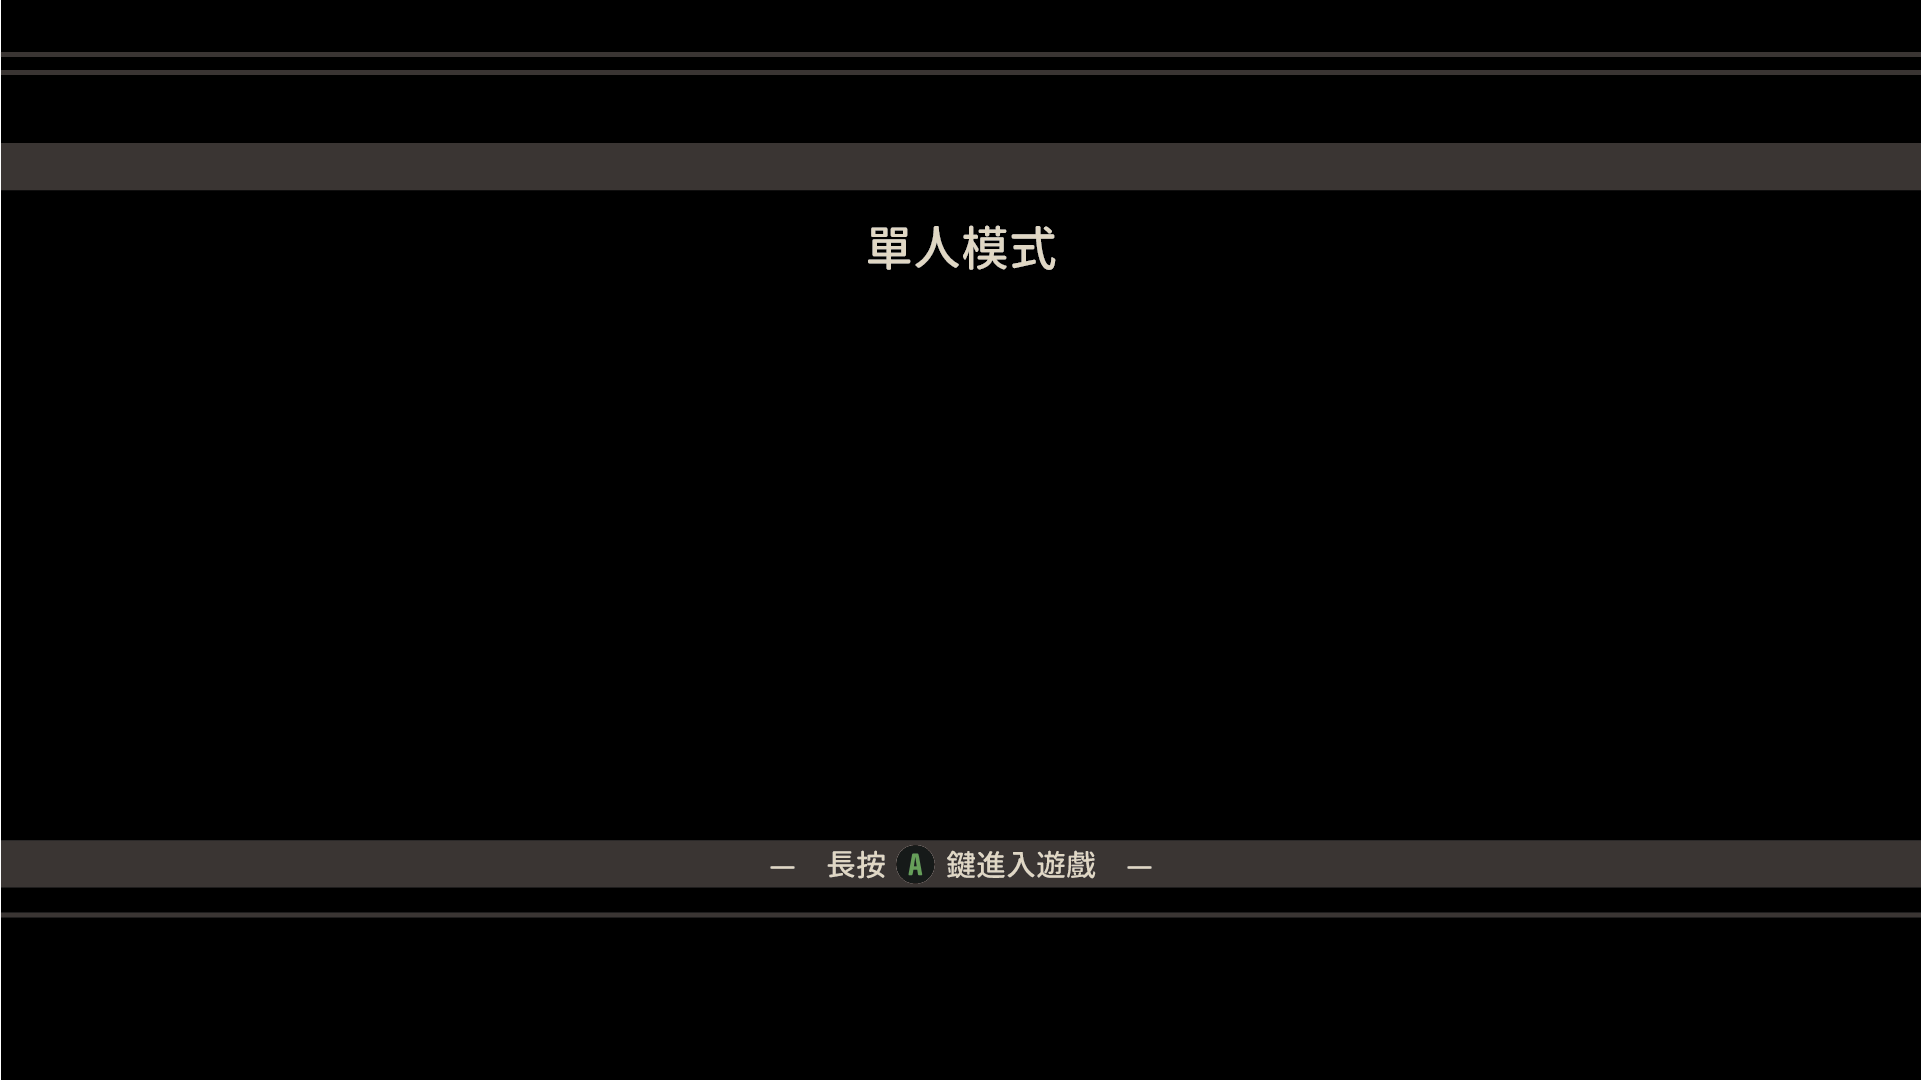
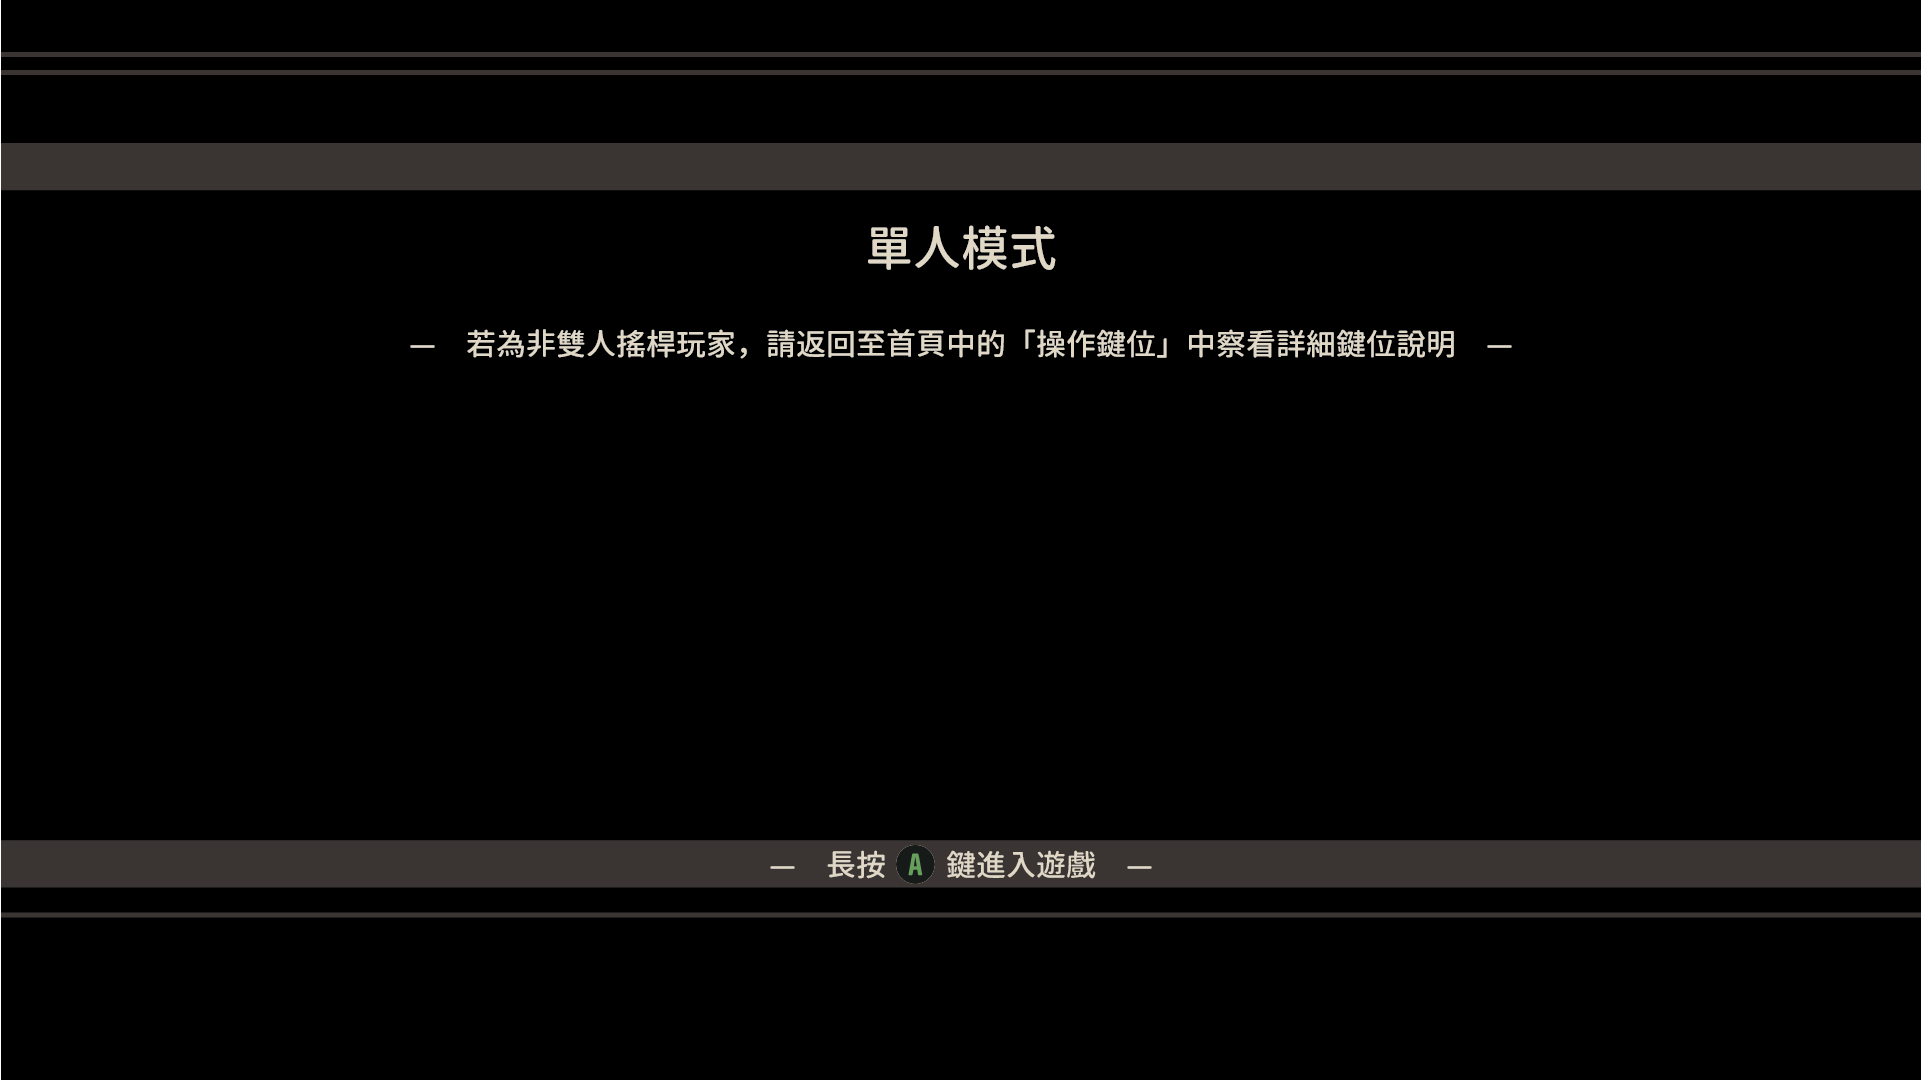
加強文字敘述版、增設開發人員bool

Changed region(s): [[0.2186, 0.3056, 0.7808, 0.3361]]

diff --git a/Assets/Tutorial.cs b/Assets/Tutorial.cs
@@ -19,6 +19,9 @@ namespace com.DungeonPad
         public int ShowHPLine;
         public Image[] HPBarImages;
 
+        float tutorialTextTimer;
+        int tutorialTextStat = 0;
+
         void Update()
         {
             Keyboard keyboard = Keyboard.current;
@@ -38,6 +41,8 @@ namespace com.DungeonPad
                     {
                         ButtonSelect.OnClicked();
                         TutorialText[nowTextNum].SetActive(false);
+                        TutorialText[nowTextNum].transform.GetChild(0).gameObject.SetActive(false);
+                        TutorialText[nowTextNum].GetComponent<Image>().color = new Color(1, 1, 1, 0.5f);
                         nowTextNum++;
                         if (nowTextNum < TutorialText.Length)
                         {
@@ -53,6 +58,7 @@ namespace com.DungeonPad
                     GameManager.players.GetChild(i).GetComponent<PlayerManager>().enabled = true;
                 }
                 nowTextNum++;
+                tutorialTextStat = TutorialText.Length - 1;
             }
             else
             {
@@ -62,6 +68,17 @@ namespace com.DungeonPad
                     {
                         GameManager.players.GetChild(i).GetComponent<PlayerManager>().DashTimer = 0.3f;
                     }
+                }
+                tutorialTextTimer += Time.deltaTime;
+                if (tutorialTextTimer >= 10)
+                {
+                    tutorialTextTimer = 0;
+                    TutorialText[tutorialTextStat].SetActive(false);
+                    if (++tutorialTextStat >= TutorialText.Length)
+                    {
+                        tutorialTextStat = 0;
+                    }
+                    TutorialText[tutorialTextStat].SetActive(true);
                 }
             }
 

diff --git a/Assets/Script/GameManager.cs b/Assets/Script/GameManager.cs
@@ -9,6 +9,8 @@ namespace com.DungeonPad
 {
     public class GameManager : MonoBehaviour
     {
+        public const bool staff = false;
+
         public static GameManager gameManager;
         public static Transform players, monsters, triggers, UI, magneticFields;
         public static int layers = 1, level = 1, passLayerOneTimes = 0, passLayerThreeTimes = 0, layerOneCntinuousDideTimes = 0, layerThreeCntinuousDideTimes = 0, layerFourCntinuousWinTimes = 0;
@@ -112,7 +114,7 @@ namespace com.DungeonPad
             }
             Keyboard keyboard = Keyboard.current;
             InputManager.currentGamepad = Gamepad.current;
-            if (keyboard.homeKey.wasPressedThisFrame)
+            if (staff && keyboard.homeKey.wasPressedThisFrame)
             {
                 shopPanel.SetActive(true);
                 shopPanel.transform.GetChild(0).GetComponent<AbilityDatas>().start();

diff --git a/Assets/Script/UI/SelectMouse.cs b/Assets/Script/UI/SelectMouse.cs
@@ -68,7 +68,7 @@ namespace com.DungeonPad
                 GameManager.players.GetChild(i).GetComponent<PlayerManager>().DashTimer = 0.3f;
             }
             selectRole();
-            if ((Keyboard.current != null && Keyboard.current.f12Key.wasPressedThisFrame) || (Gamepad.current != null && Gamepad.current.selectButton.isPressed && Gamepad.current.startButton.isPressed))
+            if (GameManager.staff && ((Keyboard.current != null && Keyboard.current.f12Key.wasPressedThisFrame) || (Gamepad.current != null && Gamepad.current.selectButton.isPressed && Gamepad.current.startButton.isPressed)))
             {
                 GameManager.passLayerOneTimes = 0;
                 GameManager.passLayerThreeTimes = 0;

diff --git a/Assets/Script/UI/HomePage.cs b/Assets/Script/UI/HomePage.cs
@@ -48,7 +48,7 @@ Application.Quit();
 
         void Update()
         {
-            if ((Keyboard.current != null && Keyboard.current.f12Key.wasPressedThisFrame) || (Gamepad.current != null && Gamepad.current.selectButton.isPressed && Gamepad.current.startButton.isPressed))
+            if (GameManager.staff && ((Keyboard.current != null && Keyboard.current.f12Key.wasPressedThisFrame) || (Gamepad.current != null && Gamepad.current.selectButton.isPressed && Gamepad.current.startButton.isPressed)))
             {
                 GameManager.passLayerOneTimes = 0;
                 GameManager.passLayerThreeTimes = 0;
